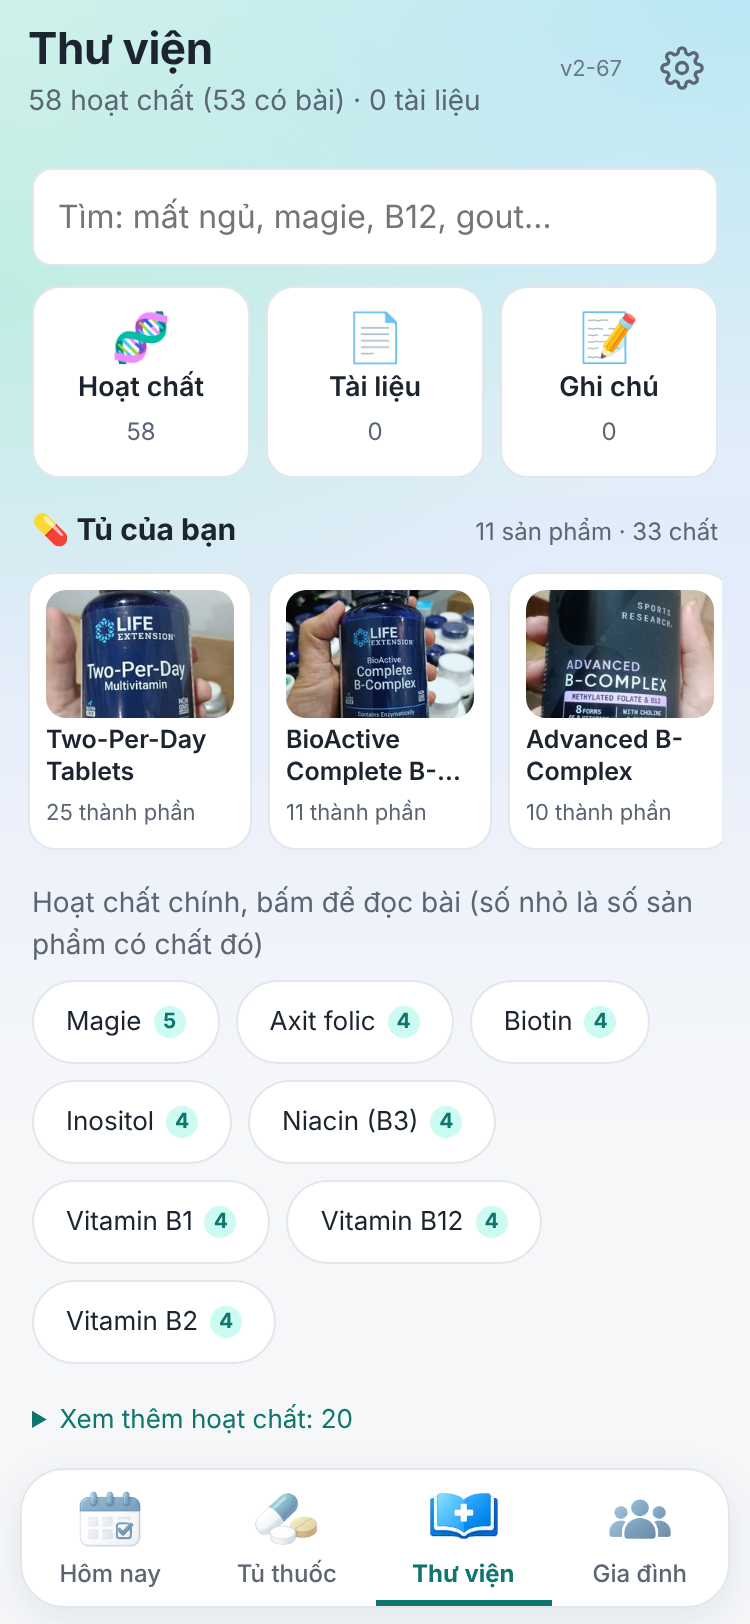
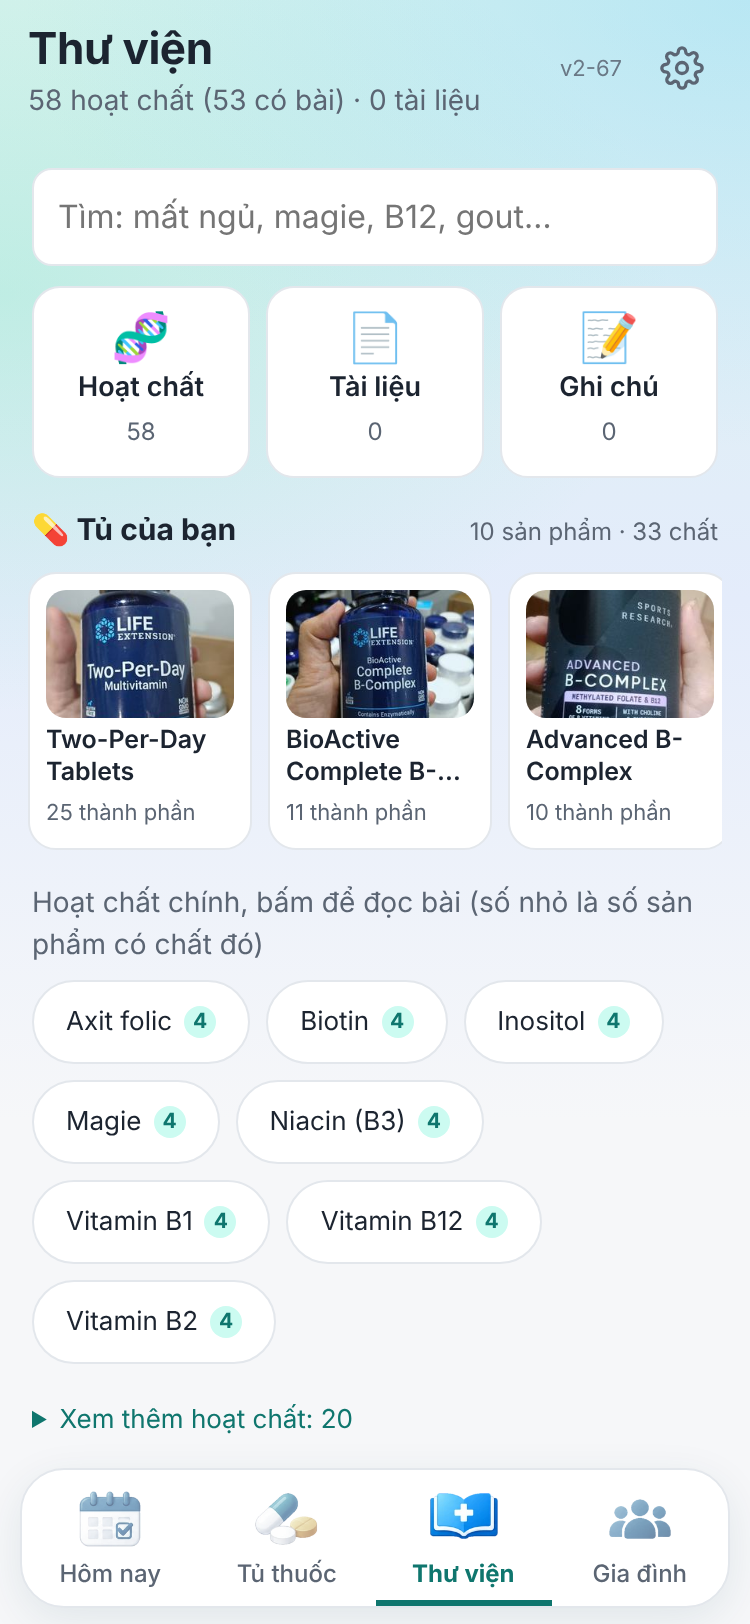
Báo cáo kiểm tra toàn app v2-67 (QA.md) và ảnh
Claude-Session: https://claude.ai/code/session_01SSfFD4fcKWdnYujWfeTwik

diff --git a/ke-hoach/QA.md b/ke-hoach/QA.md
@@ -1,0 +1,88 @@
+# QA Sổ TPCN, bản tpcn-v2-67 (Bước 2)
+
+Ngày kiểm tra: 16/11/2026. Nhánh `ccr-d80a3ee2-82fvlj`, app ở `docs/`, APP_VER `tpcn-v2-67` (khớp `VER` trong `sw.js`).
+Phương pháp: Playwright (Chromium), màn hình 375x812, tỉ lệ 2x, chạy hai lượt sáng và tối. Mỗi lượt nạp `docs/data/san-pham.json` qua ô "Cập nhật dữ liệu", một file hồ sơ mẫu "Người dùng mẫu" (bệnh nền giáp, thận, mất ngủ; thuốc thiamazole, rosuvastatin, bisoprolol; 5 sản phẩm có magie, canxi, vitamin D, i-ốt). Hồ sơ có cấu trúc (`member.hs`) gán bằng hàm của trang, nhóm thuốc lấy từ `nhomCua()` của app. Dữ liệu thử nằm trong bộ nhớ trình duyệt của phiên kiểm tra, không ghi vào repo.
+
+**Kết luận: CHƯA GỘP** (có 1 lỗi LỚN: trang Mục tiêu gout không mở được và gout không có trong Thư viện).
+
+## Bảng kết quả
+
+| # | Mục | Sáng | Tối | Ghi chú / ảnh |
+|---|---|---|---|---|
+| 1 | Hôm nay: lịch uống hiện | ĐẠT | ĐẠT | 5 lượt, "0/5 lượt đã uống" |
+| 1 | Cảnh báo đỏ (Nặng, Chặn) đúng màu | ĐẠT | ĐẠT | Đọc rõ cả hai chế độ, xem `light-14b-canh-bao-hom-nay.png`, `dark-14b-canh-bao-hom-nay.png` |
+| 1 | Cảnh báo cam (Thận trọng) và xám (Lưu ý) | KHÔNG KIỂM ĐƯỢC | KHÔNG KIỂM ĐƯỢC | Dữ liệu thử không có mức này trên Hôm nay (chỉ có "Vừa", màu trung tính) |
+| 1 | Khối theo dõi hiện trên Hôm nay | KHÔNG KIỂM ĐƯỢC | KHÔNG KIỂM ĐƯỢC | Chưa tạo chỉ số theo dõi: luồng "+ Thêm theo dõi" nhiều bước chưa tự động hoá |
+| 1 | Đánh dấu một lượt uống | ĐẠT | ĐẠT | 1/5, "20%" |
+| 1 | Số cảnh báo trên thẻ Hôm nay | LỖI (NHỎ) | LỖI (NHỎ) | Ghi "8 cảnh báo", khác thẻ Gia đình (6). Xem N1 |
+| 2 | Tủ thuốc: thêm sản phẩm | ĐẠT | ĐẠT | Form nhập tay, lưu được, hiện "300 mg, 120% mức tối đa" |
+| 2 | Sửa sản phẩm | ĐẠT | ĐẠT | Đổi tên thành "(QA sửa)", còn thấy trong danh sách |
+| 2 | Xoá sản phẩm | ĐẠT | ĐẠT | Sản phẩm biến mất khỏi danh sách |
+| 2 | Cảnh báo trùng chất | ĐẠT | ĐẠT | Block "Trùng nhau": Magie (citrate + oxide), Vitamin D |
+| 2 | Vượt mức tối đa | ĐẠT | ĐẠT | Magie 600 mg/250 mg, Vitamin D 145 mcg/100 mcg |
+| 3 | Tìm "hořčík" | ĐẠT | ĐẠT | Ra "Magie" |
+| 3 | Tìm "thận" | ĐẠT | ĐẠT | Ra chủ đề "Thận và sỏi thận" |
+| 3 | Tìm "gout" | **LỖI (LỚN)** | **LỖI (LỚN)** | "Không tìm thấy 'gout'". Xem L1 |
+| 3 | Tìm "mất ngủ" | ĐẠT | ĐẠT | Ra "Giấc ngủ và căng thẳng" |
+| 3 | Mục tiêu giap | ĐẠT | ĐẠT | Có Cần khám trước, Chất nên thận trọng, TPCN theo tầng, Trong tủ thuốc. Mâu thuẫn và Đã thử không thấy không có dữ liệu thử |
+| 3 | Mục tiêu than | ĐẠT | ĐẠT | Như trên (không có "Trong tủ thuốc") |
+| 3 | Mục tiêu ngu | ĐẠT | ĐẠT | Như trên (không có "Trong tủ thuốc") |
+| 3 | Mục tiêu gout | **LỖI (LỚN)** | **LỖI (LỚN)** | Không mở được, rơi về Thư viện chung. Xem L1 |
+| 4 | Thẻ thành viên có "Hỗ trợ N mục tiêu · M cảnh báo" | ĐẠT | ĐẠT | "Hỗ trợ 4 mục tiêu · 6 cảnh báo" (xem N1, N2) |
+| 4 | Tab Tổng quan, Hồ sơ, Lịch uống, Gợi ý, Theo dõi | ĐẠT | ĐẠT | Đều mở được |
+| 4 | Lịch uống có Bản đồ phủ | ĐẠT | ĐẠT | |
+| 4 | Tạo phiếu hỏi bác sĩ | ĐẠT | ĐẠT | Phiếu có "Lập ngày 16/11/2026", ghi chú chỉ để tham khảo |
+| 5 | Công tắc "Xem cả ý chưa duyệt" bật | ĐẠT | ĐẠT | Có nhãn "chưa duyệt", nội dung 3732 → 9522 ký tự |
+| 5 | Công tắc tắt | ĐẠT | ĐẠT | Ẩn ý chưa duyệt không thuộc nhóm an toàn (9522 → 3732). Cảnh báo an toàn vẫn hiện nhãn "chưa duyệt", đúng thiết kế (dòng 1976 `docs/index.html`) |
+| 6 | Xuất có mật khẩu, file đã mã hoá | ĐẠT | ĐẠT | Không có "Thiamazole" dạng chữ trong file |
+| 6 | Nhập đúng mật khẩu ra cùng dữ liệu | ĐẠT | ĐẠT | Đã xoá iốt trước khi nhập, sau khi nhập có lại. 11 sản phẩm, 5 lịch, 1 thành viên |
+| 6 | Nhập sai mật khẩu báo lỗi | ĐẠT | ĐẠT | "Sai mật khẩu, hoặc file sao lưu đã bị sửa" |
+| 6 | File không mật khẩu vẫn nhập được | ĐẠT | ĐẠT | |
+| 6 | Nhập file "cũ" | KHÔNG KIỂM ĐƯỢC | KHÔNG KIỂM ĐƯỢC | Không có file bản cũ để thử |
+| 7 | Ngoại tuyến: app mở lại được | ĐẠT | KHÔNG CHẠY | Chỉ chạy ở lượt sáng. Service worker điều khiển trang |
+| 7 | Ngoại tuyến: Thư viện và Mục tiêu giap có dữ liệu | ĐẠT | KHÔNG CHẠY | Gia đình cũng còn dữ liệu |
+| 8 | Không có lỗi JavaScript | ĐẠT | ĐẠT | pageerror và console.error đều 0 |
+| 9 | Chữ không có từ cấm | LỖI (NHỎ) | LỖI (NHỎ) | Chữ chung cho cả hai lượt. Xem N3 |
+| 10 | Không tràn ngang (scrollWidth ≤ 375) | ĐẠT | ĐẠT | 16 trang kiểm tra, lớn nhất 375 |
+
+Ảnh đầy đủ: `ke-hoach/anh/qa/` (tiền tố `light-` và `dark-`), ví dụ `light-01-hom-nay-dau.png`, `light-03-tu-thuoc.png`, `light-09-gia-dinh.png`, `light-11-phieu-bac-si.png`, `light-14-sao-luu-nhap.png`, `light-15-ngoai-tuyen-thu-vien.png`.
+
+## Danh sách lỗi
+
+### LỚN
+
+**L1. Mục tiêu gout không mở được và không tìm được trong Thư viện.**
+- Nguyên nhân: `goalList()` (`docs/index.html`, khoảng dòng 1920) chỉ lấy `KB_TOPICS` (19 mục, không có gout) và `GOAL_EXTRA` (than, dinhduong, mo). `docs/data/khung.json` có mục tiêu `gout` ("Gout và acid uric") với 3 mục "Cần khám trước" và 9 dòng ý (`y`), nên dữ liệu có nhưng app không đưa vào danh sách.
+- Cách tái hiện: Thư viện, gõ "gout" trong ô tìm kiếm → "Không tìm thấy 'gout'". Hoặc gọi `goGoal('gout')` → màn hình Thư viện chung, không có trang mục tiêu.
+- Ảnh: `ke-hoach/anh/qa/light-07-tim-gout.png`, `light-08-muc-gout.png`, `dark-08-muc-gout.png`.
+- Ảnh hưởng: Bước 3 của kế hoạch cần ý gout "không tự dùng TPCN thay thuốc hạ acid uric". Trong app hiện không đọc được nội dung này.
+
+### NHỎ
+
+**N1. Số cảnh báo trên hai thẻ thành viên không khớp và không theo đúng quy tắc "chỉ đếm nặng".**
+- Thẻ "Sức khoẻ gia đình" trên Hôm nay ghi "8 cảnh báo": `docs/index.html` dòng 908 dùng `warningsFor(m).length`, đếm cả lưu ý nhẹ. Hôm nay cũng ghi "Còn 4 lưu ý nhẹ".
+- Thẻ trang Gia đình ghi "6 cảnh báo": `banDoPhuSummary` (dòng 2100) chỉ đếm mức nặng.
+- Ảnh: `light-02-hom-nay-cuoi.png` (8), `light-09-gia-dinh.png` (6).
+
+**N2. Thẻ Gia đình đếm 3 "nguồn ghi cần tránh" đang chờ duyệt, còn Hôm nay không hiện.**
+- Ba mục có `trang_thai: cho_duyet` (thuộc magie và vitamin D). Chúng được đếm trong 6 cảnh báo khi công tắc tắt, nhưng không hiện trên Hôm nay. Cần chủ kế hoạch quyết định: đếm hay không đếm.
+- Ghi chú: việc cảnh báo an toàn chưa duyệt vẫn hiện trên tab Gợi ý là thiết kế có chủ ý (dòng 1976), không tính là lỗi.
+
+**N3. Chữ có từ cần tránh trong nội dung hiển thị (`docs/kb.js`).**
+- "chữa": dòng 10, 255, 281, 645, 658, 1149, 1163, 1526 (phần lớn là "Phòng và chữa thiếu ..." lấy từ NIH; dòng 645 "chữa được thiếu máu").
+- "tốt nhất": dòng 16, 288, 611, 1089, 1379 (ví dụ "Hấp thu tốt nhất khi uống cùng bữa ăn").
+- "100%": dòng 538 ("tài trợ 100%", thông tin sự kiện), 639, 1166.
+- Dòng 94 là trích dẫn nguyên văn trong ngoặc, được miễn.
+- Cần người duyệt nội dung quyết định sửa hay giữ.
+
+## Chưa kiểm được
+- Khối theo dõi trên Hôm nay (cần tạo chỉ số theo dõi).
+- Cảnh báo cam và xám trên Hôm nay (dữ liệu thử không có).
+- Nhập file bản sao lưu cũ (không có file mẫu).
+- Mâu thuẫn và "Đã thử không thấy" của mục tiêu (dữ liệu thử không có).
+- Ngoại tuyến ở lượt tối.
+
+## Ghi chú về phiên kiểm tra
+- Lần nạp đầu tôi gán thiamazole vào nhóm `giap_t4` (levothyroxine) thay vì `khang_giap`, làm sinh cảnh báo sai. Đã sửa bằng `nhomCua()` của app trước khi chạy kết quả trong bảng. Đây là lỗi của dữ liệu thử, không phải lỗi app.
+- Ba ảnh `light-08-muc-gout.png`, `light-10-fam-lu.png`, `light-11-phieu-bac-si.png` có sẵn trong git (commit `ee6d186`) và đã bị ghi đè bằng ảnh mới cùng tên. Không có tệp nào bị xoá. Các ảnh khác cùng thư mục giữ nguyên trạng thái trong git.
+- Không sửa `docs/`, `ke-hoach/du-lieu`, `ke-hoach/scripts`. Không commit, không push.
